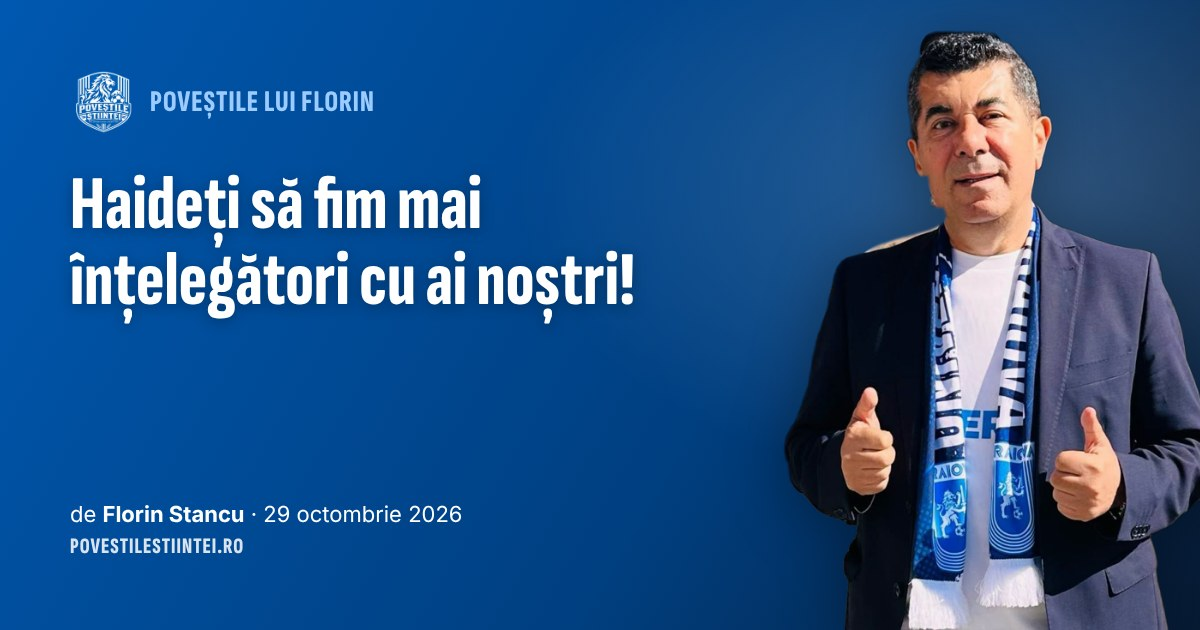
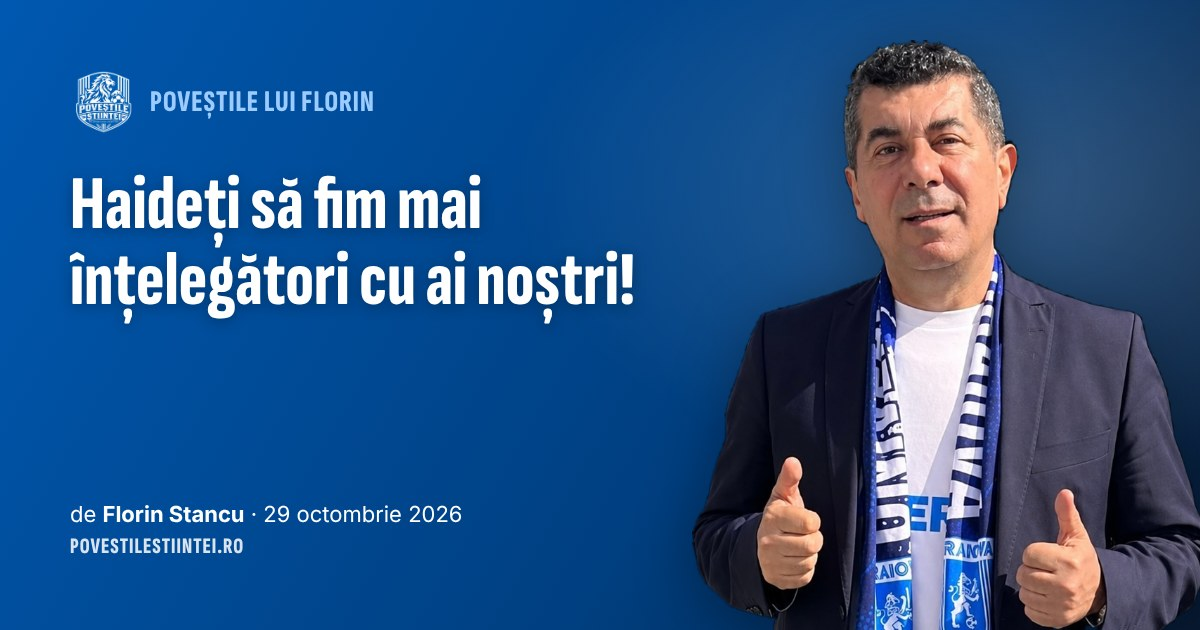
Coperti Florin: fotografia noua decupata, titlu cu potrivire automata; tema 1.19.1 fara grila pe copertile lui Florin
Claude-Session: https://claude.ai/code/session_01SrDFHPNvKwrjfNLZXWSEfR

Changed region(s): [[0.555, 0.0302, 1.0, 1.0]]

diff --git a/unelte/coperta-florin.js b/unelte/coperta-florin.js
@@ -24,8 +24,8 @@ const html = `<!doctype html><html><head><meta charset="utf-8"><style>
 * { margin: 0; box-sizing: border-box; }
 body { width: 1200px; height: 630px; overflow: hidden; font-family: Inter, sans-serif; color: #fff;
 	background: radial-gradient(ellipse 70% 80% at 85% 30%, rgba(255,255,255,.18), transparent 60%), linear-gradient(120deg, #0058B0 0%, #003F80 60%, #071A33 100%); }
-.foto { position: absolute; right: -20px; bottom: 0; height: 600px; filter: drop-shadow(0 10px 30px rgba(0,0,0,.35)); }
-.text { position: absolute; left: 70px; top: 70px; width: 660px; height: 490px; display: flex; flex-direction: column; }
+.foto { position: absolute; right: -10px; bottom: 0; height: 590px; filter: drop-shadow(0 10px 30px rgba(0,0,0,.35)); }
+.text { position: absolute; left: 70px; top: 70px; width: 600px; height: 490px; display: flex; flex-direction: column; }
 .rubrica { display: flex; align-items: center; gap: 16px; }
 .rubrica img { width: 64px; height: 64px; object-fit: contain; }
 .rubrica span { font-family: Sofia; font-weight: 800; font-size: 30px; letter-spacing: 1px; text-transform: uppercase; color: #9CCBFF; }
@@ -47,6 +47,15 @@ h1 { font-family: Sofia; font-weight: 800; font-size: ${titleSize}px; line-heigh
 	const page = await browser.newPage({ viewport: { width: 1200, height: 630 } });
 	await page.setContent(html, { waitUntil: 'load' });
 	await page.evaluate(() => document.fonts.ready);
+	// Titlul începe de la mărimea calculată și scade până încape în cel mult 5 rânduri, deasupra autorului.
+	await page.evaluate(() => {
+		const h1 = document.querySelector('h1');
+		const autor = document.querySelector('.autor');
+		for (let px = parseInt(getComputedStyle(h1).fontSize, 10); px >= 36; px -= 2) {
+			h1.style.fontSize = px + 'px';
+			if (Math.round(h1.getBoundingClientRect().height / px) <= 5 && h1.getBoundingClientRect().bottom <= autor.getBoundingClientRect().top - 24) break;
+		}
+	});
 	await page.screenshot({ path: outFile, type: 'jpeg', quality: 88 });
 	await browser.close();
 	console.log('Coperta: ' + outFile);
